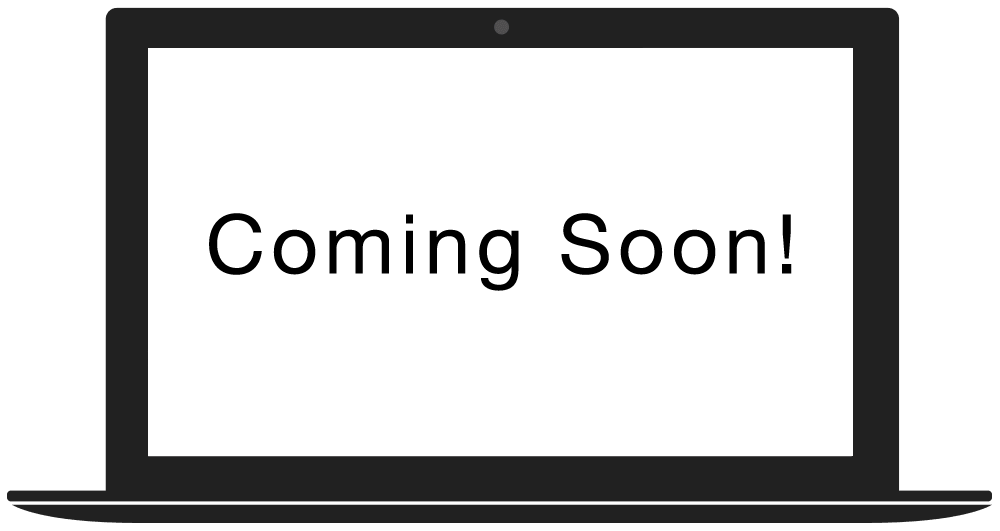
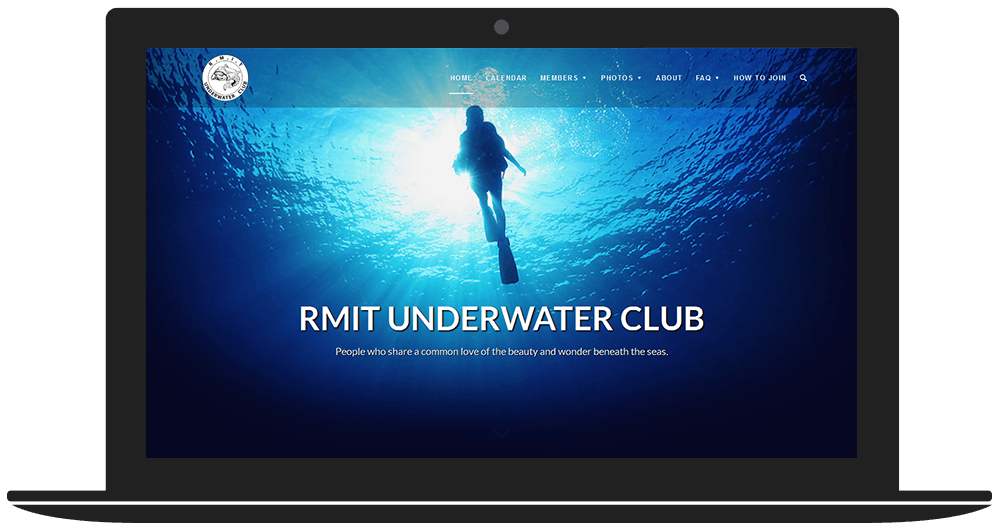
Optimized Images for RMITUC and MerryMae and Added RMITUC Screenshots

diff --git a/index.html b/index.html
@@ -108,7 +108,10 @@
         
          <section class="container RMITUC section" id="RMITUC">
             <ul class="fade">
-                <li><img alt="RMIT Underwater Club Screenshot" src="img/RMITUC/DesktopViewGallery.png" title="Funky roots"></li>
+           		<li><img alt="RMIT Underwater Club Screenshot" src="img/RMITUC/DesktopViewGallery.png" title="Funky roots"></li>
+				<li><img alt="RMIT Underwater Club Screenshot" src="img/RMITUC/DesktopViewHome.png" title="The long and winding road"></li>
+                <li><img alt="RMIT Underwater Club Screenshot" src="img/RMITUC/PhoneView.png" title="The long and winding road"></li>
+                <li><img alt="RMIT Underwater Club Screenshot" src="img/RMITUC/TabletViewHome.png" title="The long and winding road"></li>
             </ul><!--Work Columns-->
 
             <div class="workContent">
@@ -118,16 +121,16 @@
                     <h2>RMIT Underwater Club</h2>
 
                     <nav class="cl-effect-7 visitSiteDesktop"  >
-                        <a href="#" target="_blank">Visit Site</a><br>
+                        <a href="http://rmituc.org.au" target="_blank">Visit Site</a><br>
                     </nav>
                 </div>
 
                 <div class="responsive-col-right">
                   <ul>
-                    <li>Coming Soon!</li>
+                    <li>Typing....</li>
                   </ul>
                   <nav class="cl-effect-7 visitSiteMobile"  >
-                        <a href="#" target="_blank">Visit Site</a><br>
+                        <a href="http://rmituc.org.au" target="_blank">Visit Site</a><br>
                   </nav>
               </div><!--</div>-->
             </div>
